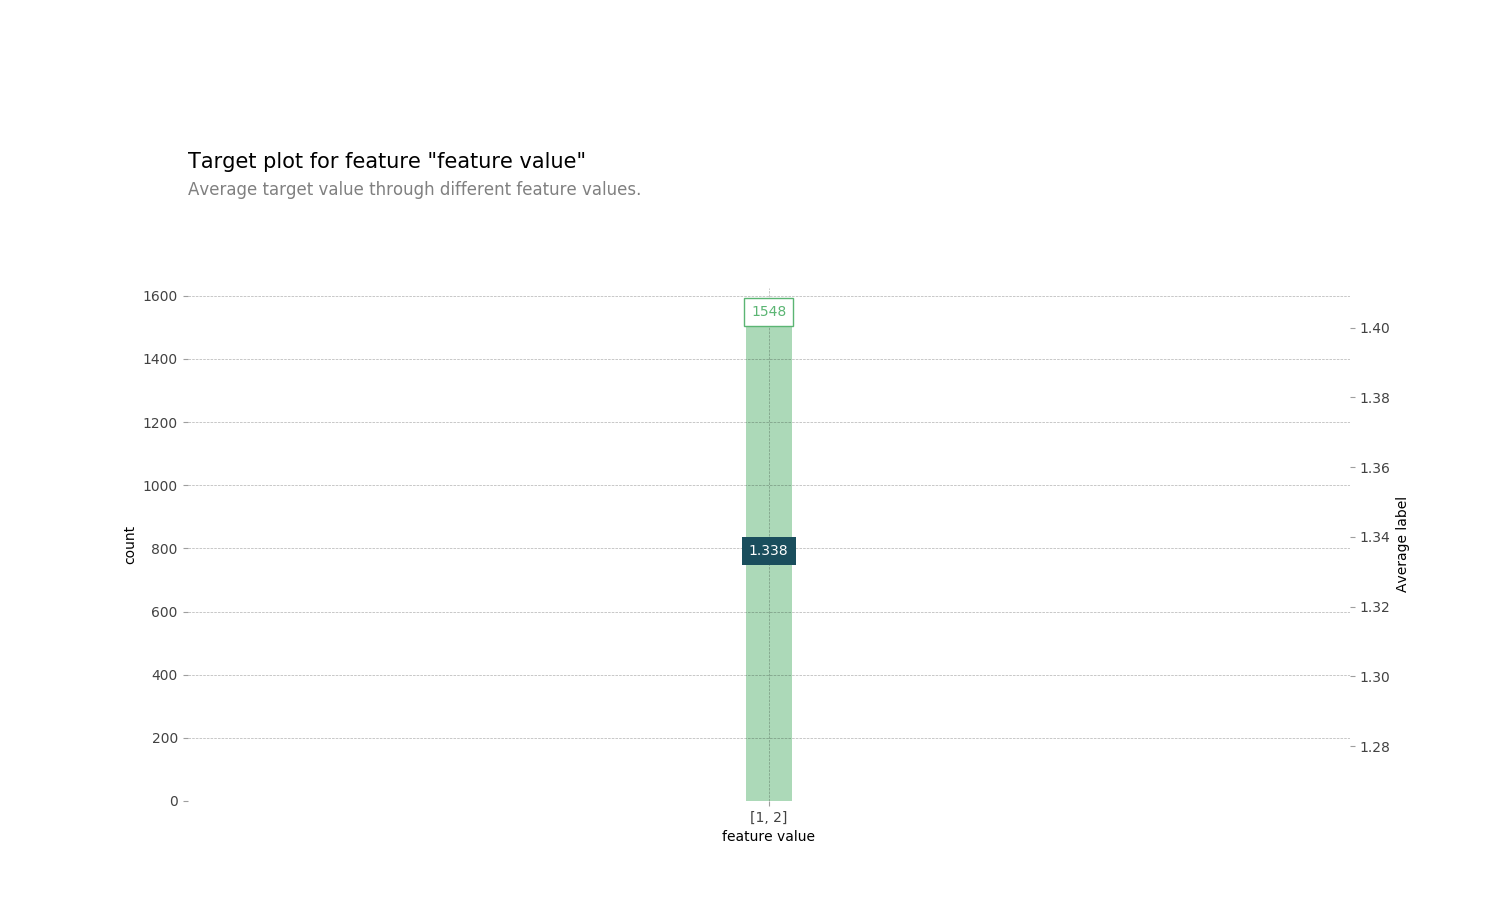
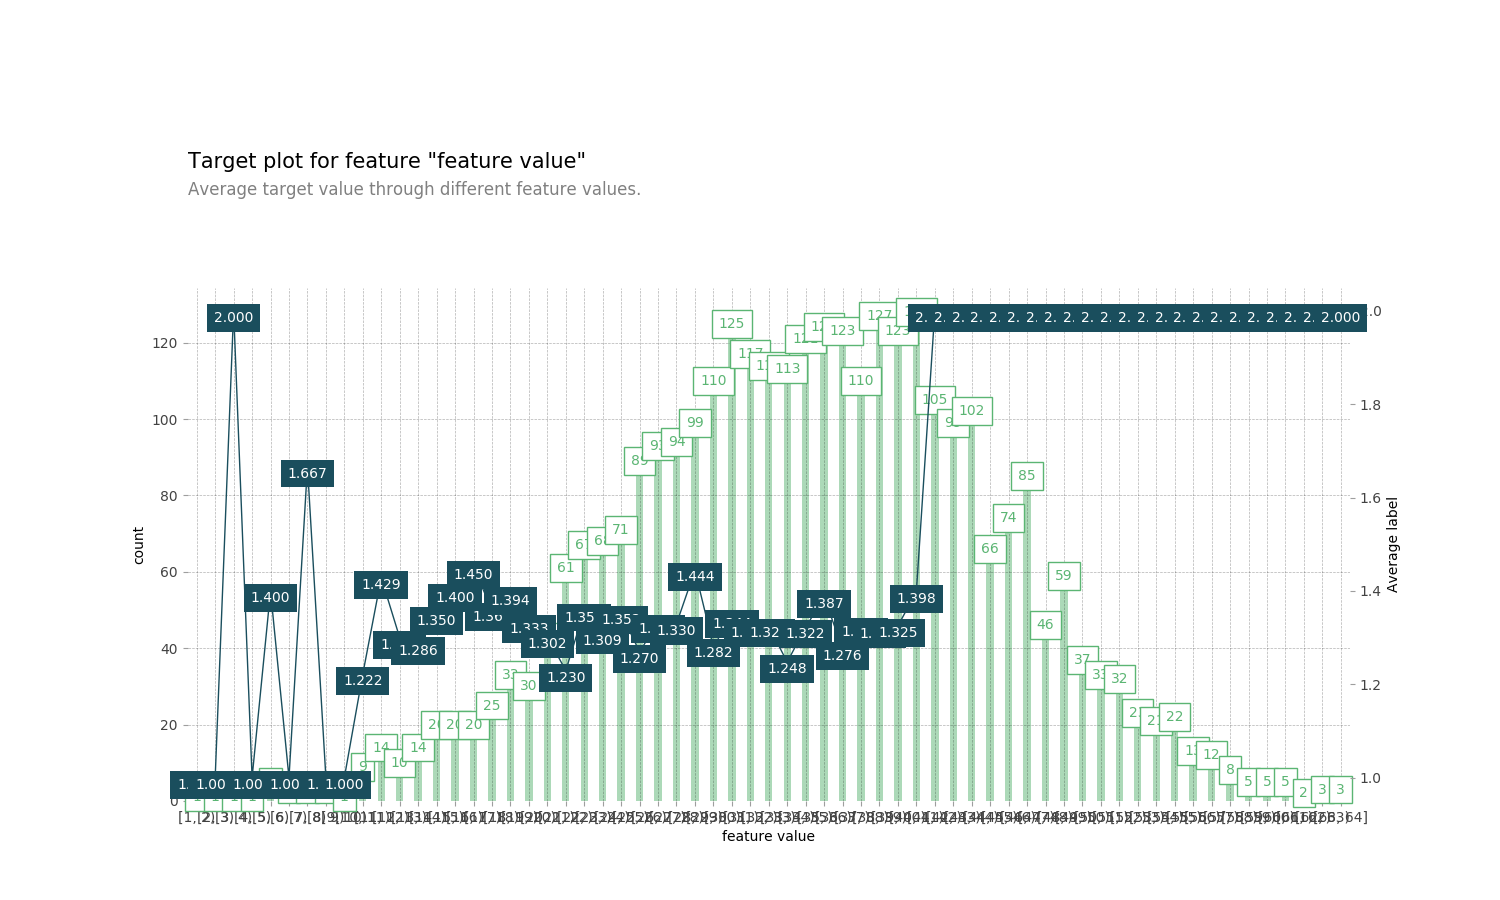
SHAP, Skater, ICE and decode api is ready

diff --git a/src/jobs/management/commands/try_ice.py b/src/jobs/management/commands/try_ice.py
@@ -6,6 +6,7 @@ import matplotlib.pyplot as plt
 import numpy as numpy
 from src.core.core import get_encoded_logs
 from src.encoding.common import retrieve_proper_encoder
+from src.encoding.models import ValueEncodings
 from src.jobs.models import Job
 
 
@@ -14,17 +15,18 @@ class Command(BaseCommand):
 
     def handle(self, *args, **kwargs):
         # get model
-        TARGET_MODEL = 54
+        TARGET_MODEL = 4
         job = Job.objects.filter(pk=TARGET_MODEL)[0]
         model = joblib.load(job.predictive_model.model_path)[0]
         # load data
         training_df, test_df = get_encoded_logs(job)
+        training_df['label'] = training_df['label'].astype(bool).astype(int)
         columns = list(training_df.columns.values)
-
+        print(training_df['label'].dtype)
         features = list(training_df.drop(
             ['trace_id', 'label'],
             1).columns.values)
-        feature = 'CType_1'
+        feature = 'creatinine'
         feature_grids, percentile_info = _get_grids(
             feature_values=training_df[feature].values, num_grid_points=10, grid_type=None,
             percentile_range='percentile', grid_range=None)
@@ -48,35 +50,20 @@ class Command(BaseCommand):
         encoder = retrieve_proper_encoder(job)
         encoder.decode(training_df, job.encoding)
         values = training_df[feature].values
+        training_df
         lst = []
         print(summary_df)
-        for x in range(len(indexs) - 1):
-            lst.append({'value': values[indexs[x]],
-                        'label': summary_df.label.values[x],
-                        'count': summary_df.values[x][4],
-                        })
+        if job.encoding.value_encoding != ValueEncodings.BOOLEAN.value:
+            for x in range(len(indexs) - 1):
+                lst.append({'value': values[indexs[x]],
+                            'label': summary_df['label'][x],
+                            'count': summary_df['count'][x],
+                            })
+        else:
+            for x in range(summary_df.shape[0]):
+                lst.append({'value': summary_df['display_column'][x],
+                            'label': summary_df['label'][x],
+                            'count': summary_df['count'][x],
+                            })
         print(lst)
-
-    # explanation_target_df
-    # # print(test_df)
-    # print(explanation_target_df.tail(1)['prefix_1'][0])
-
-    # pdp_fare = pdp.pdp_isolate(
-    #     model=model, dataset=training_df, model_features=features, feature='prefix_1'
-    # )
-    # fig, axes = pdp.pdp_plot(pdp_fare, 'prefix_1')
-    # fig.savefig('label.png')
-    #
-    # inter1 = pdp.pdp_interact(
-    #     model=model, dataset=training_df, model_features=features, features=['prefix_1', 'prefix_2']
-    # )
-    # fig, axes = pdp.pdp_interact_plot(inter1, ['prefix_1', 'prefix_2'], plot_type='grid', x_quantile=True,
-    #                                   plot_pdp=False)
-    # fig.savefig('pdp_interact_plot.png')
-    #
-    # fig, axes, summary_df = info_plots.actual_plot_interact(
-    #     model=model, X=training_df[features], features=['prefix_6', 'prefix_1'],
-    #     feature_names=['prefix_6', 'prefix_1']
-    # )
-    # fig.savefig('actual_plot_interact.png')
 

diff --git a/src/explanation/ice_wrapper.py b/src/explanation/ice_wrapper.py
@@ -1,28 +1,53 @@
 import shap
+from pdpbox import info_plots
+from pdpbox.utils import _get_grids
 
 from src.encoding.common import retrieve_proper_encoder
+from src.encoding.models import ValueEncodings
 from src.explanation.models import Explanation
 from sklearn.externals import joblib
 import os
 
-def explain(shap_exp: Explanation, training_df, test_df, explanation_target):
-    job = shap_exp.job
+def explain(ice_exp: Explanation, training_df, test_df, explanation_target):
+    job = ice_exp.job
     model = joblib.load(job.predictive_model.model_path)
     model = model[0]
-    shap.initjs()
+    training_df = training_df.drop(['trace_id'], 1)
+    if job.encoding.value_encoding == ValueEncodings.BOOLEAN.value:
+        training_df['label'] = training_df['label'].astype(bool).astype(int) + 1
 
-    training_df = training_df.drop(['trace_id', 'label'], 1)
-    test_df = test_df.drop(['trace_id', 'label'], 1)
-    explainer = shap.TreeExplainer(model)
-    shap_values = explainer.shap_values(training_df)
-
+    feature_grids, percentile_info = _get_grids(
+        feature_values=training_df[explanation_target].values, num_grid_points=10, grid_type=None,
+        percentile_range='percentile', grid_range=None)
+    custom_grids = []
+    indexs = []
+    for x in range(int(feature_grids.min()), int(feature_grids.max() - 1)):
+        custom_grids.append(x);
+    fig, axes, summary_df = info_plots.target_plot(
+        df = training_df,
+        feature = explanation_target,
+        feature_name = 'feature value',
+        cust_grid_points = custom_grids,
+        target = 'label',
+        show_percentile = False
+    )
+    lists = list(training_df[explanation_target].values)
+    for x in range(int(feature_grids.min()), int(feature_grids.max() - 1)):
+        indexs.append(lists.index(x))
     encoder = retrieve_proper_encoder(job)
     encoder.decode(training_df, job.encoding)
-    explanation_target_int = int(explanation_target)
-
-    shap.force_plot(explainer.expected_value[0], shap_values[0][explanation_target_int, :], training_df.iloc[explanation_target_int, :],
-                                   show=False, matplotlib=True).savefig("temporal_shap.svg")
-    f = open("temporal_shap.svg", "r")
-    response = f.read()
-    os.remove("temporal_shap.svg")
-    return response
+    values = training_df[explanation_target].values
+    lst = []
+    if job.encoding.value_encoding != ValueEncodings.BOOLEAN.value:
+        for x in range(len(indexs) - 1):
+            lst.append({'value': values[indexs[x]],
+                        'label': summary_df['label'][x],
+                        'count': summary_df['count'][x],
+                        })
+    else:
+        for x in range(summary_df.shape[0]):
+            lst.append({'value': summary_df['display_column'][x],
+                        'label': summary_df['label'][x],
+                        'count': summary_df['count'][x],
+                        })
+    return lst

diff --git a/src/explanation/skater_wrapper.py b/src/explanation/skater_wrapper.py
@@ -1,0 +1,45 @@
+import shap
+from dtreeviz.trees import dtreeviz
+from skater.core.explanations import Interpretation
+from skater.model import InMemoryModel
+
+from src.encoding.common import retrieve_proper_encoder
+from src.explanation.models import Explanation
+from sklearn.externals import joblib
+import os
+
+def explain(skater_exp: Explanation, training_df, test_df, explanation_target):
+    job = skater_exp.job
+    model = joblib.load(job.predictive_model.model_path)
+    model = model[0]
+    shap.initjs()
+
+    features = list(training_df.drop(['trace_id', 'label'], 1).columns.values)
+    interpreter = Interpretation(training_df, feature_names=features)
+    X_train = training_df.drop(['trace_id', 'label'], 1)
+    Y_train = training_df['label'].values
+
+    model_inst = InMemoryModel(model.predict, examples=X_train, model_type='classifier', unique_values=[1, 2],
+                               feature_names=features, target_names=['label'])
+    surrogate_explainer = interpreter.tree_surrogate(model_inst, seed=5)
+
+    surrogate_explainer.fit(X_train, Y_train, use_oracle=True, prune='post', scorer_type='default')
+    surrogate_explainer.class_names = features
+
+    viz = dtreeviz(surrogate_explainer.estimator_,
+                   X_train,
+                   Y_train,
+                   target_name='label',
+                   feature_names=features,
+                   orientation="TD",
+                   class_names=list(surrogate_explainer.class_names),
+                   fancy=True,
+                   X=None,
+                   label_fontsize=12,
+                   ticks_fontsize=8,
+                   fontname="Arial")
+    viz.save("skater_plot.svg")
+    f = open("skater_plot.svg", "r")
+    response = f.read()
+    os.remove("skater_plot.svg")
+    return response

diff --git a/src/explanation/shap_wrapper.py b/src/explanation/shap_wrapper.py
@@ -4,23 +4,29 @@ from src.encoding.common import retrieve_proper_encoder
 from src.explanation.models import Explanation
 from sklearn.externals import joblib
 import os
+import pandas as pd
 
 def explain(shap_exp: Explanation, training_df, test_df, explanation_target):
     job = shap_exp.job
+    job
     model = joblib.load(job.predictive_model.model_path)
     model = model[0]
     shap.initjs()
 
-    training_df = training_df.drop(['trace_id', 'label'], 1)
-    test_df = test_df.drop(['trace_id', 'label'], 1)
     explainer = shap.TreeExplainer(model)
-    shap_values = explainer.shap_values(training_df)
+    merged_df = pd.concat([training_df, test_df])
+    shap_values = explainer.shap_values(merged_df.drop(['trace_id', 'label'], 1))
 
     encoder = retrieve_proper_encoder(job)
-    encoder.decode(training_df, job.encoding)
-    explanation_target_int = int(explanation_target)
+    encoder.decode(merged_df, job.encoding)
+    print(explanation_target)
+    print(test_df['trace_id'] == explanation_target)
+    print(test_df[test_df['trace_id'] == explanation_target])
+    explanation_target_int = merged_df[merged_df['trace_id'] == explanation_target].index.item() + training_df.drop(['trace_id', 'label'], 1).shape[0]
 
-    shap.force_plot(explainer.expected_value[0], shap_values[0][explanation_target_int, :], training_df.iloc[explanation_target_int, :],
+    explanation_target_vector = test_df[test_df['trace_id'] == explanation_target].drop(['trace_id', 'label'], 1)
+
+    shap.force_plot(explainer.expected_value[0], shap_values[0][explanation_target_int, :], explanation_target_vector,
                                    show=False, matplotlib=True).savefig("temporal_shap.svg")
     f = open("temporal_shap.svg", "r")
     response = f.read()

diff --git a/src/explanation/urls.py b/src/explanation/urls.py
@@ -3,11 +3,13 @@ from django.conf.urls import url
 from . import views
 
 urlpatterns = [
-    url(r'^temporal_stability/(?P<pk>[0-9]+)&(?P<explanation_target>[0-9]+)', views.get_temporal_stability),
+    url(r'^temporal_stability/(?P<pk>[0-9]+)&(?P<explanation_target>[0-9_]+)', views.get_temporal_stability),
     url(r'^temporal_stability/(?P<pk>[0-9]+)', views.get_temporal_stability),
-    url(r'^lime_temporal_stability/(?P<pk>[0-9]+)&(?P<explanation_target>[0-9]+)', views.get_lime_temporal_stability),
-    url(r'^lime_temporal_stability/(?P<pk>[0-9]+)', views.get_lime_temporal_stability),
-    url(r'^lime/(?P<pk>[0-9]+)&(?P<explanation_target>[0-9]+)', views.get_lime),
-    url(r'^shap/(?P<pk>[0-9]+)&(?P<explanation_target>[0-9]+)', views.get_shap),
+    url(r'^lime_temporal_stability/(?P<pk>[0-9]+)&(?P<explanation_target>[0-9_]+)', views.get_lime_temporal_stability),
+    url(r'^lime_temporal_stability/(?P<pk>[0-9_]+)', views.get_lime_temporal_stability),
+    url(r'^lime/(?P<pk>[0-9]+)&(?P<explanation_target>[0-9_]+)', views.get_lime),
+    url(r'^shap/(?P<pk>[0-9]+)&(?P<explanation_target>[0-9_]+)', views.get_shap),
+    url(r'^skater/(?P<pk>[0-9]+)', views.get_skater),
+    url(r'^ice/(?P<pk>[0-9]+)&(?P<explanation_target>[^/]+)', views.get_ice),
     url(r'^anchor/(?P<pk>[0-9]+)', views.get_anchor),
 ]

diff --git a/src/explanation/views.py b/src/explanation/views.py
@@ -66,6 +66,26 @@ def get_shap(request, pk, explanation_target):
 
 
 @api_view(['GET'])
+def get_skater(request, pk):
+    job = Job.objects.filter(pk=pk)[0]
+    exp, _ = Explanation.objects.get_or_create(type=ExplanationTypes.SKATER.value, split=job.split,
+                                               predictive_model=job.predictive_model, job=job)
+    exp.save()
+    result = explanation(exp.id, explanation_target = None)
+    return Response(result, status=200)
+
+
+@api_view(['GET'])
+def get_ice(request, pk, explanation_target):
+    job = Job.objects.filter(pk=pk)[0]
+    exp, _ = Explanation.objects.get_or_create(type=ExplanationTypes.ICE.value, split=job.split,
+                                               predictive_model=job.predictive_model, job=job)
+    exp.save()
+    result = explanation(exp.id, explanation_target)
+    return Response(result, status=200)
+
+
+@api_view(['GET'])
 def get_anchor(request, pk):
     job = Job.objects.filter(pk=pk)[0]
     exp, _ = Explanation.objects.get_or_create(type=ExplanationTypes.ANCHOR.value, split=job.split,

diff --git a/src/jobs/views.py b/src/jobs/views.py
@@ -8,6 +8,8 @@ from rest_framework.mixins import RetrieveModelMixin
 from rest_framework.response import Response
 
 from src.clustering.models import Clustering
+from src.core.core import get_encoded_logs
+from src.encoding.common import retrieve_proper_encoder
 from src.encoding.models import Encoding
 from src.hyperparameter_optimization.models import HyperparameterOptimization
 from src.jobs import tasks
@@ -161,3 +163,13 @@ def create_multiple(request):
         django_rq.enqueue(tasks.prediction_task, job.id)
     serializer = JobSerializer(jobs, many=True)
     return Response(serializer.data, status=201)
+
+
+@api_view(['GET'])
+def get_decoded_df(request, pk):
+    job = Job.objects.filter(pk=pk)[0]
+    training_df, test_df = get_encoded_logs(job)
+    training_df = training_df.drop(['trace_id'], 1)
+    encoder = retrieve_proper_encoder(job)
+    encoder.decode(training_df, job.encoding)
+    return Response(training_df, status=200)

diff --git a/src/explanation/explanation.py b/src/explanation/explanation.py
@@ -1,5 +1,5 @@
 from src.core.core import get_encoded_logs
-from src.explanation import lime_wrapper, shap_wrapper, anchor_wrapper, temporal_stability
+from src.explanation import lime_wrapper, shap_wrapper, anchor_wrapper, temporal_stability, ice_wrapper, skater_wrapper
 from src.explanation.models import Explanation, ExplanationTypes
 
 EXPLAIN = 'explain'
@@ -14,7 +14,10 @@ EXPLANATION = {
         'explain': shap_wrapper.explain
     },
     ExplanationTypes.ICE.value: {
-        'explain': shap_wrapper.explain
+        'explain': ice_wrapper.explain
+    },
+    ExplanationTypes.SKATER.value: {
+        'explain': skater_wrapper.explain
     },
     ExplanationTypes.ANCHOR.value: {
         'explain': anchor_wrapper.explain

diff --git a/src/jobs/management/commands/skater.py b/src/jobs/management/commands/skater.py
@@ -51,7 +51,6 @@ class Command(BaseCommand):
         model_inst = InMemoryModel(model.predict, examples=X_train, model_type='classifier', unique_values=[1, 2],
                                    feature_names=features, target_names=['label'])
         surrogate_explainer = interpreter.tree_surrogate(model_inst, seed=5)
-        surrogate_explainer
 
         surrogate_explainer.fit(X_train, Y_train, use_oracle=True, prune='post', scorer_type='default')
         surrogate_explainer.class_names = features

diff --git a/src/explanation/temporal_stability.py b/src/explanation/temporal_stability.py
@@ -44,7 +44,6 @@ def temporal_stability(temporal_stability_exp: Explanation, training_df, test_df
         return _multi_trace_temporal_stability(temporal_stability_exp, training_df, test_df)
     else:
         explanation_target_df = test_df[test_df['trace_id'] == explanation_target]
-
         exp = MODEL[PredictiveModels.CLASSIFICATION.value][ModelActions.PREDICT.value](temporal_stability_exp.job, explanation_target_df)
 
         encoder = retrieve_proper_encoder(temporal_stability_exp.job)

diff --git a/src/jobs/management/commands/try_shap.py b/src/jobs/management/commands/try_shap.py
@@ -19,7 +19,7 @@ class Command(BaseCommand):
 
     def handle(self, *args, **kwargs):
 
-        TARGET_MODEL = 53
+        TARGET_MODEL = 4
         job = Job.objects.filter(pk=TARGET_MODEL)[0]
         model = joblib.load(job.predictive_model.model_path)
         model = model[0]

diff --git a/src/jobs/urls.py b/src/jobs/urls.py
@@ -6,4 +6,6 @@ urlpatterns = [
     url(r'^$', views.JobList.as_view()),
     url(r'^(?P<pk>[0-9]+)$', views.JobDetail.as_view()),
     url(r'multiple$', views.create_multiple),
+    url(r'^decode/(?P<pk>[0-9]+)', views.get_decoded_df),
+
 ]
